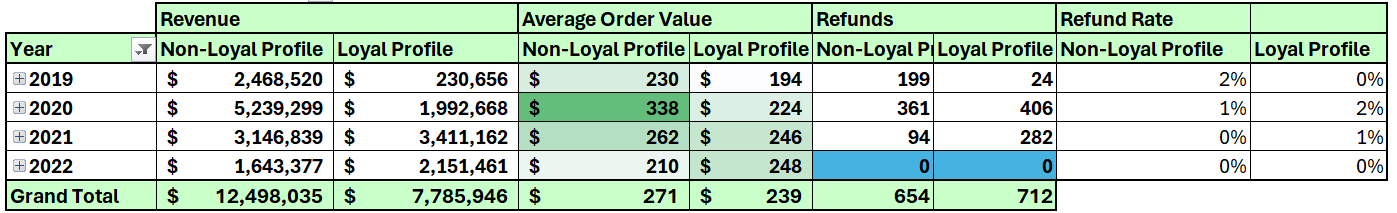
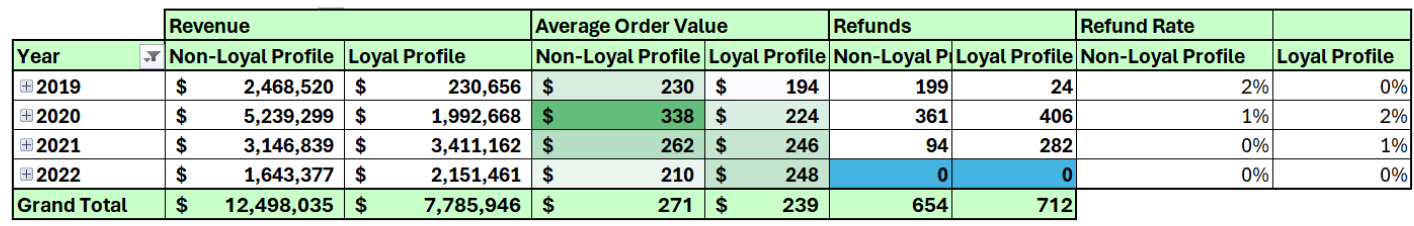
Resized tables and charts.

diff --git a/README.md b/README.md
@@ -51,7 +51,7 @@ This section represents the specific questions and requests that stakeholders ha
 
 ## Insights Deep Dive
 ### Sales Trends
-![alt text](assets/TotalSalesAndGrowth.png)
+![alt text](assets/TotalSalesAndGrowthLine.png)
 
 ![alt text](assets/TotalSalesRevTable.png)
 
@@ -60,7 +60,7 @@ This section represents the specific questions and requests that stakeholders ha
 ![alt text](assets/MarketingChannelRevenue.png)
 
 #### Regions
-![alt text](assets/CountryLeaderboard.png)
+![alt text](assets/Top10Countries.png)
 
 #### Loyalty Program
 ![alt text](assets/LoyaltyRevenueAOVRefund.png)
